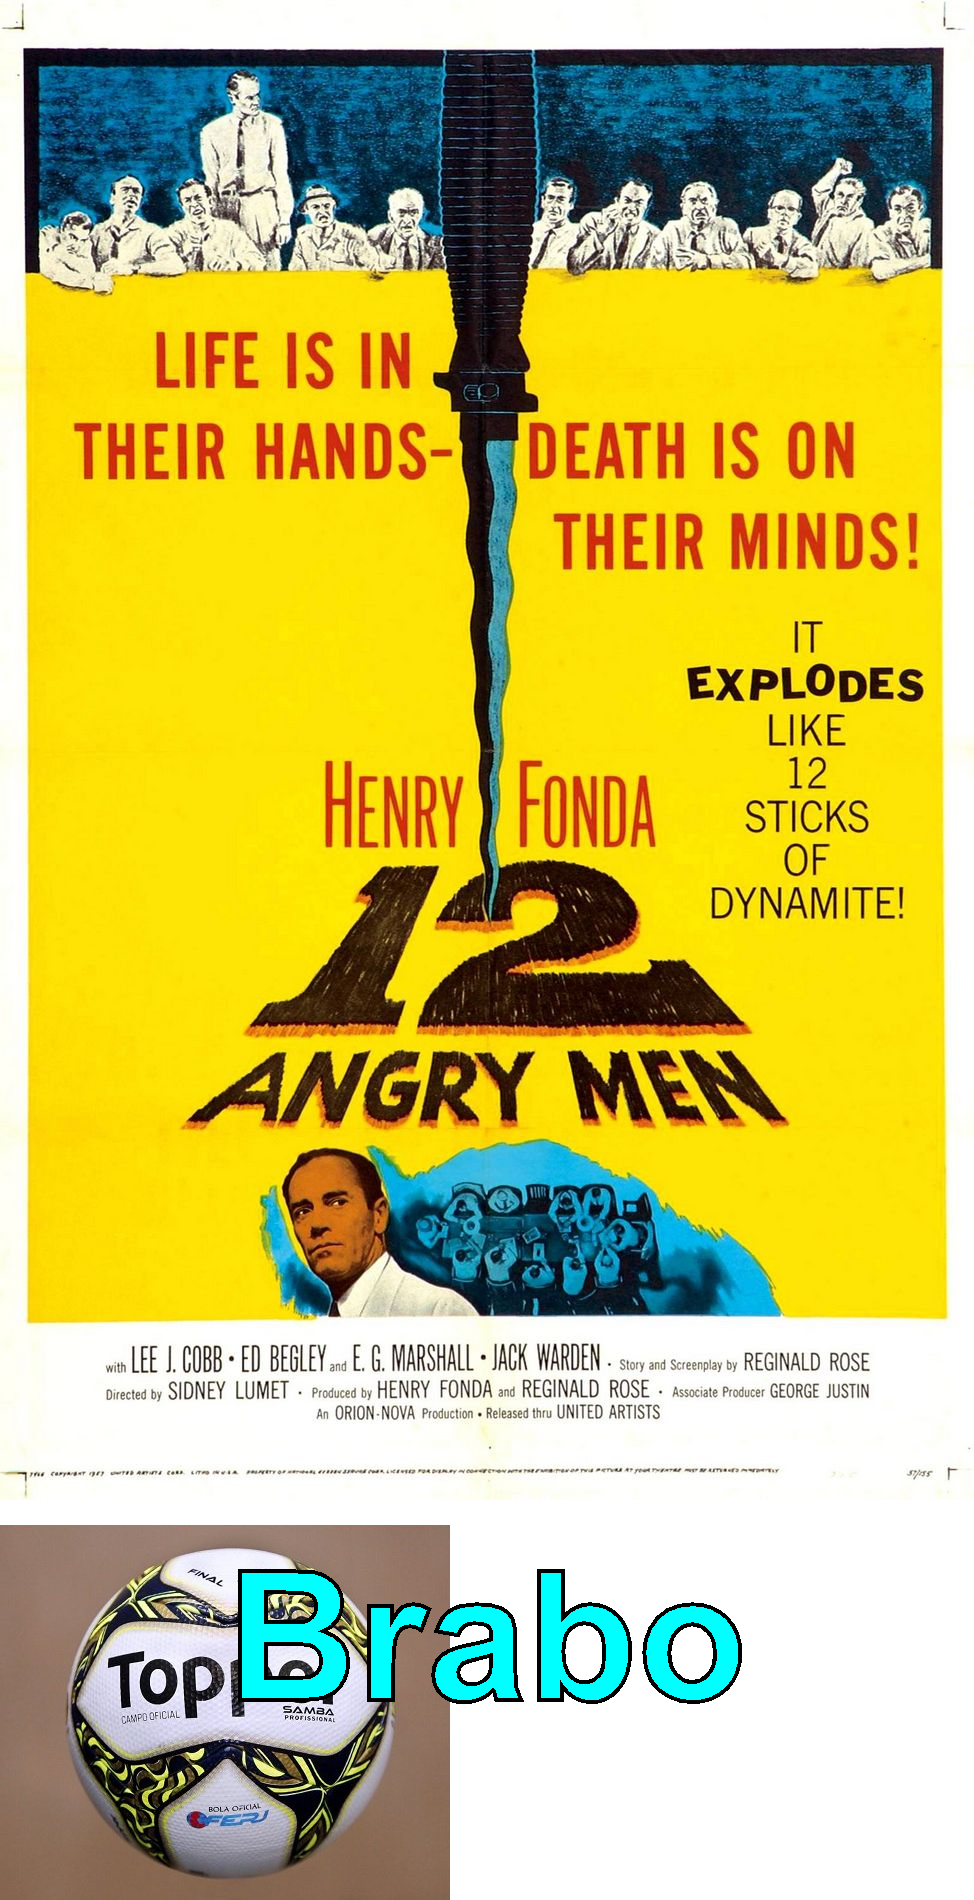
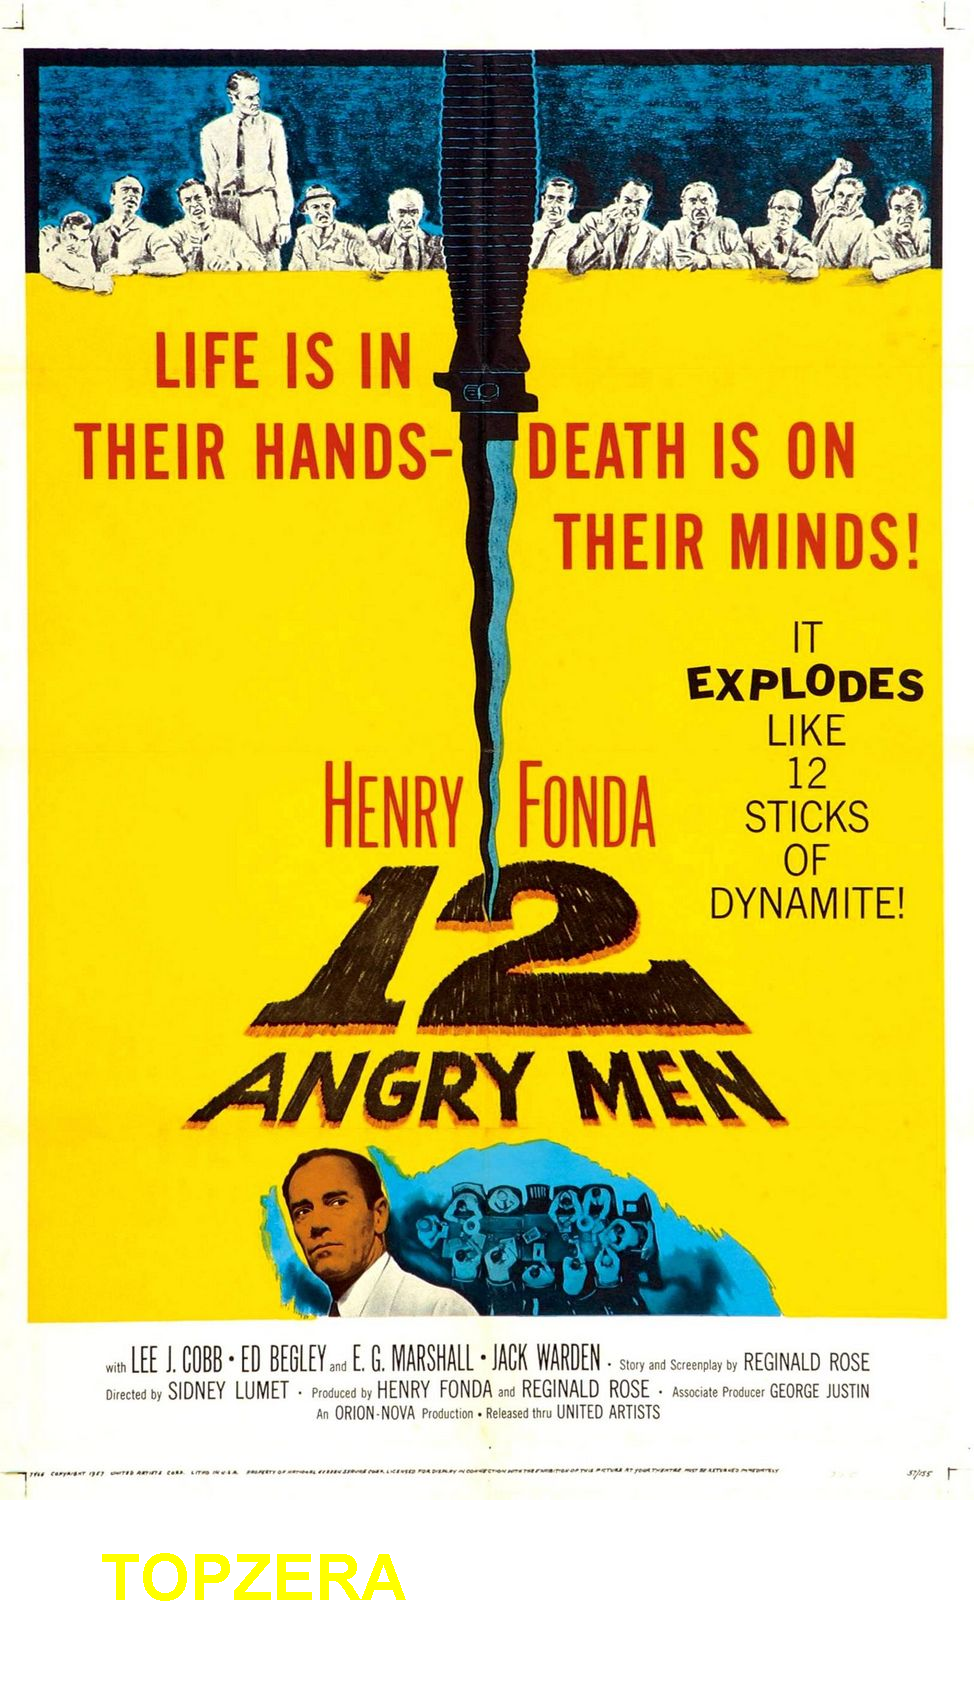
Aula3

diff --git a/src/App.java b/src/App.java
@@ -1,11 +1,7 @@
 import java.io.File;
 import java.io.FileInputStream;
 import java.io.InputStream;
-import java.net.URI;
 import java.net.URL;
-import java.net.http.HttpClient;
-import java.net.http.HttpRequest;
-import java.net.http.HttpResponse;
 import java.util.List;
 import java.util.Map;
 
@@ -15,54 +11,38 @@ public class App {
 
         //Realizar conexão https e buscar top 250 filmes
         //String imdbKey = System.getenv("IMDB_GIT_HANDLER");
-        String url = "https://raw.githubusercontent.com/alura-cursos/imersao-java-2-api/main/TopMovies.json";
-        //String url = imdbKey;
-        URI endereco =  URI.create(url);
-        var client = HttpClient.newHttpClient();
-        var request = HttpRequest.newBuilder(endereco).GET().build();
-        HttpResponse<String> response = client.send(request, HttpResponse.BodyHandlers.ofString());
-        String body = response.body();
-        //System.out.println(body);
 
-        //Pegar dados interessantes (título, poster, classificação - nota)
-        var parser = new JsonParser();
-        List<Map<String, String>> listaDeFilmes = parser.parse(body);
+        //String url = imdbKey;
+
+        //String url = "https://api.nasa.gov/planetary/apod?api_key=DEMO_KEY&start_date=2022-06-12&end_date=2022-06-14";
+        //String url = "https://URLBIZONHAapi.nasa.gov/planetary/apod?api_key=DEMO_KEY&start_date=2022-06-12&end_date=2022-06-14";
+        //String url = "https://raw.githubusercontent.com/alura-cursos/imersao-java-2-api/main/TopMovies.json";
+
+        API api = API.IMDB_TOP_MOVIES;
+
+        String url = api.getUrl();
+        ExtratorDeConteudo extrator = api.getExrator();
+
+        var http = new ClienteHttp();
+        String json = http.buscaDados(url);
+
+
+        List<Conteudo> conteudos = extrator.extraiConteudos(json);
 
         var dir = new File("figurinhas/");
         dir.mkdir();
 
         //exibir e manipular os dados
         var geradora = new GeradoraDeSticker();
-        for (int i = 0; i < 5; i++) {
-            Map<String, String> filme = listaDeFilmes.get(i);
+        for (int i = 0; i < 3; i++) {
+            Conteudo conteudo = conteudos.get(i);
 
-            String urlimagem = filme.get("image");
-            String titulo = filme.get("title");
+            InputStream inputStream = new URL(conteudo.urlImagem()).openStream();
+            String nomeArquivo = "figurinhas/" + conteudo.titulo() + ".png";
 
-            InputStream inputStream = new URL(urlimagem).openStream();
-            String nomeArquivo = "figurinhas/" + titulo + ".png";
 
-            System.out.println("\u001b[1mTitulo: \u001b[m" + filme.get("title"));
-            System.out.println("\u001b[1mImagem: \u001b[m" + filme.get("image"));
-            System.out.println(filme.get("imDbRating"));
-            double rating = Double.parseDouble(filme.get("imDbRating"));
-            int numEstrela = (int) rating;
-            for (int j = 1; j <= numEstrela; j++){
-                System.out.print("⭐");
-            }
-            System.out.println("\n");
-            String textoFigurinha;
-            InputStream imagemSelo;
-            if (rating >= 8) {
-                textoFigurinha = "Brabo";
-                imagemSelo = new FileInputStream(new File("selos/topper.jpg"));
-            }
-            else {
-                textoFigurinha = "HMMMMMMM.......";
-                imagemSelo = new FileInputStream(new File("selos/ruim.jpg"));
-            }
-
-            geradora.cria(inputStream, nomeArquivo, textoFigurinha, imagemSelo);
+            geradora.cria(inputStream, nomeArquivo);
+            System.out.println(conteudo.titulo());
         }
     }
 }

diff --git a/src/GeradoraDeSticker.java b/src/GeradoraDeSticker.java
@@ -67,4 +67,37 @@ public class GeradoraDeSticker {
 
     }
 
+    public void cria(InputStream inputStream, String nomeArquivo) throws Exception {
+
+        // leitura da imagem
+        // InputStream inputStream =
+        //             new FileInputStream(new File("entrada/filme-maior.jpg"));
+        // InputStream inputStream =
+        //                 new URL("https://m.media-amazon.com/images/M/MV5BMDFkYTc0MGEtZmNhMC00ZDIzLWFmNTEtODM1ZmRlYWMwMWFmXkEyXkFqcGdeQXVyMTMxODk2OTU@.jpg")
+        //                 .openStream();
+        BufferedImage imagemOriginal = ImageIO.read(inputStream);
+
+        // cria nova imagem em memória com transparência e com tamanho novo
+        int largura = imagemOriginal.getWidth();
+        int altura = imagemOriginal.getHeight();
+        int novaAltura = altura + 200;
+        BufferedImage novaImagem = new BufferedImage(largura, novaAltura, BufferedImage.TRANSLUCENT);
+
+        // copiar a imagem original pra novo imagem (em memória)
+        Graphics2D graphics = (Graphics2D) novaImagem.getGraphics();
+        graphics.drawImage(imagemOriginal, 0, 0, null);
+
+        // configurar a fonte
+        var fonte = new Font(Font.SANS_SERIF, Font.BOLD, 64);
+        graphics.setColor(Color.YELLOW);
+        graphics.setFont(fonte);
+
+        // escrever uma frase na nova imagem
+        graphics.drawString("TOPZERA", 100, novaAltura - 100);
+
+        // escrever a nova imagem em um arquivo
+        ImageIO.write(novaImagem, "png", new File(nomeArquivo));
+
+    }
+
 }

diff --git a/src/OutputFormatadoIMDB.java b/src/OutputFormatadoIMDB.java
@@ -1,0 +1,26 @@
+public class OutputFormatadoIMDB {
+
+    // TODO: implementar essas linhas dentro da saida especificamente para as figurinhas de imdb
+
+//            System.out.println("\u001b[1mTitulo: \u001b[m" + conteudo.get("title"));
+//            System.out.println("\u001b[1mImagem: \u001b[m" + conteudo.get("image"));
+//            System.out.println(conteudo.get("imDbRating"));
+//            double rating = Double.parseDouble(conteudo.get("imDbRating"));
+//            int numEstrela = (int) rating;
+//            for (int j = 1; j <= numEstrela; j++){
+//                System.out.print("⭐");
+//            }
+//            System.out.println("\n");
+//            String textoFigurinha;
+//            InputStream imagemSelo;
+//            if (rating >= 8) {
+//                textoFigurinha = "Brabo";
+//                imagemSelo = new FileInputStream(new File("selos/topper.jpg"));
+//            }
+//            else {
+//                textoFigurinha = "HMMMMMMM.......";
+//                imagemSelo = new FileInputStream(new File("selos/ruim.jpg"));
+//            }
+
+//            geradora.cria(inputStream, nomeArquivo, textoFigurinha, imagemSelo);
+}

diff --git a/src/ClienteHttp.java b/src/ClienteHttp.java
@@ -1,0 +1,21 @@
+import java.io.IOException;
+import java.net.URI;
+import java.net.http.HttpClient;
+import java.net.http.HttpRequest;
+import java.net.http.HttpResponse;
+
+public class ClienteHttp {
+    // pega o body do html
+    public String buscaDados(String url) {
+
+        try {
+            URI endereco =  URI.create(url);
+            var client = HttpClient.newHttpClient();
+            var request = HttpRequest.newBuilder(endereco).GET().build();
+            HttpResponse<String> response = client.send(request, HttpResponse.BodyHandlers.ofString());
+            return response.body();
+        }catch (IOException | InterruptedException e) {
+            throw new ClienteHttpException("Erro ao consulta a URL.");
+        }
+    }
+}

diff --git a/src/API.java b/src/API.java
@@ -1,0 +1,22 @@
+import com.sun.source.doctree.TextTree;
+
+public enum API {
+    IMDB_TOP_MOVIES("https://raw.githubusercontent.com/alura-cursos/imersao-java-2-api/main/TopMovies.json", new ExtratorDeConteudoIMdB()),
+    NASA("https://api.nasa.gov/planetary/apod?api_key=DEMO_KEY&start_date=2022-06-12&end_date=2022-06-14", new ExtratorDeConteudoNASA());
+
+    private String url;
+    private ExtratorDeConteudo exrator;
+
+    API(String url, ExtratorDeConteudo extrator) {
+        this.url = url;
+        this.exrator = extrator;
+    }
+
+    public String getUrl(){
+        return url;
+    }
+
+    public ExtratorDeConteudo getExrator() {
+        return exrator;
+    }
+}

diff --git a/src/ExtratorDeConteudoIMdB.java b/src/ExtratorDeConteudoIMdB.java
@@ -1,0 +1,15 @@
+import java.util.ArrayList;
+import java.util.List;
+import java.util.Map;
+
+public class ExtratorDeConteudoIMdB implements ExtratorDeConteudo{
+    public List<Conteudo> extraiConteudos(String json) {
+        var parser = new JsonParser();
+        List<Map<String, String>> listaDeAtributos = parser.parse(json);
+
+        return listaDeAtributos.stream()
+                .map((atributos) -> new Conteudo(atributos.get("title"), atributos.get("image")))
+                .toList();
+
+    }
+}

diff --git a/src/ExtratorDeConteudoNASA.java b/src/ExtratorDeConteudoNASA.java
@@ -1,0 +1,15 @@
+import java.util.ArrayList;
+import java.util.List;
+import java.util.Map;
+
+public class ExtratorDeConteudoNASA implements ExtratorDeConteudo{
+    public List<Conteudo> extraiConteudos(String json) {
+        var parser = new JsonParser();
+        List<Map<String, String>> listaDeAtributos = parser.parse(json);
+
+        return listaDeAtributos.stream()
+                .map((atributos) -> new Conteudo(atributos.get("title"), atributos.get("url")))
+                .toList();
+
+    }
+}

diff --git a/src/ClienteHttpException.java b/src/ClienteHttpException.java
@@ -1,0 +1,5 @@
+public class ClienteHttpException extends RuntimeException {
+    public ClienteHttpException(String msg) {
+        super(msg);
+    }
+}

diff --git a/src/ExtratorDeConteudo.java b/src/ExtratorDeConteudo.java
@@ -1,0 +1,6 @@
+import java.util.List;
+
+public interface ExtratorDeConteudo {
+    List<Conteudo> extraiConteudos(String json) ;
+
+}

diff --git a/src/Conteudo.java b/src/Conteudo.java
@@ -1,0 +1,1 @@
+public record Conteudo(String titulo, String urlImagem) {}
